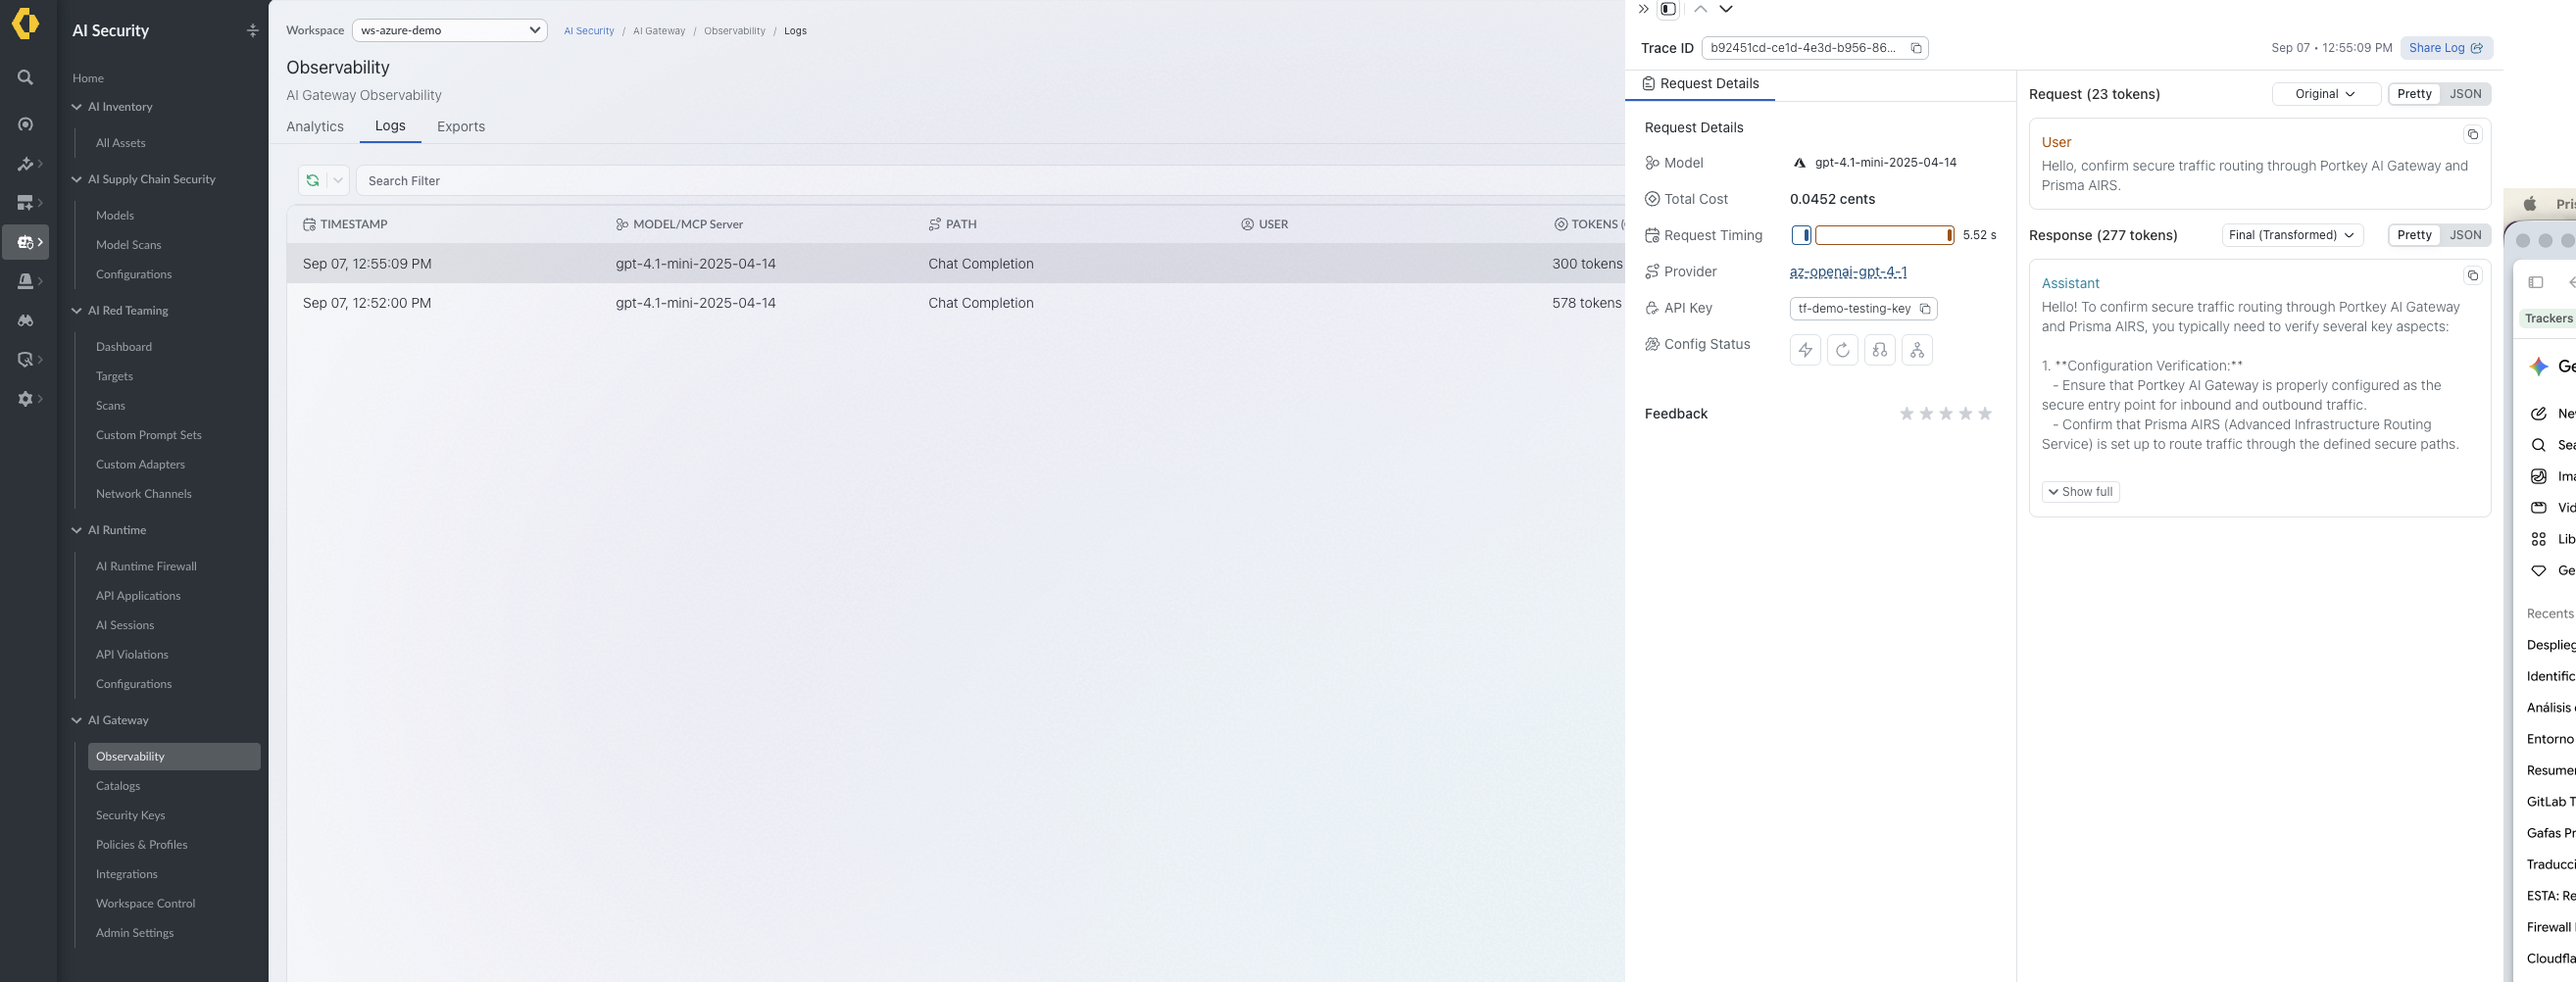
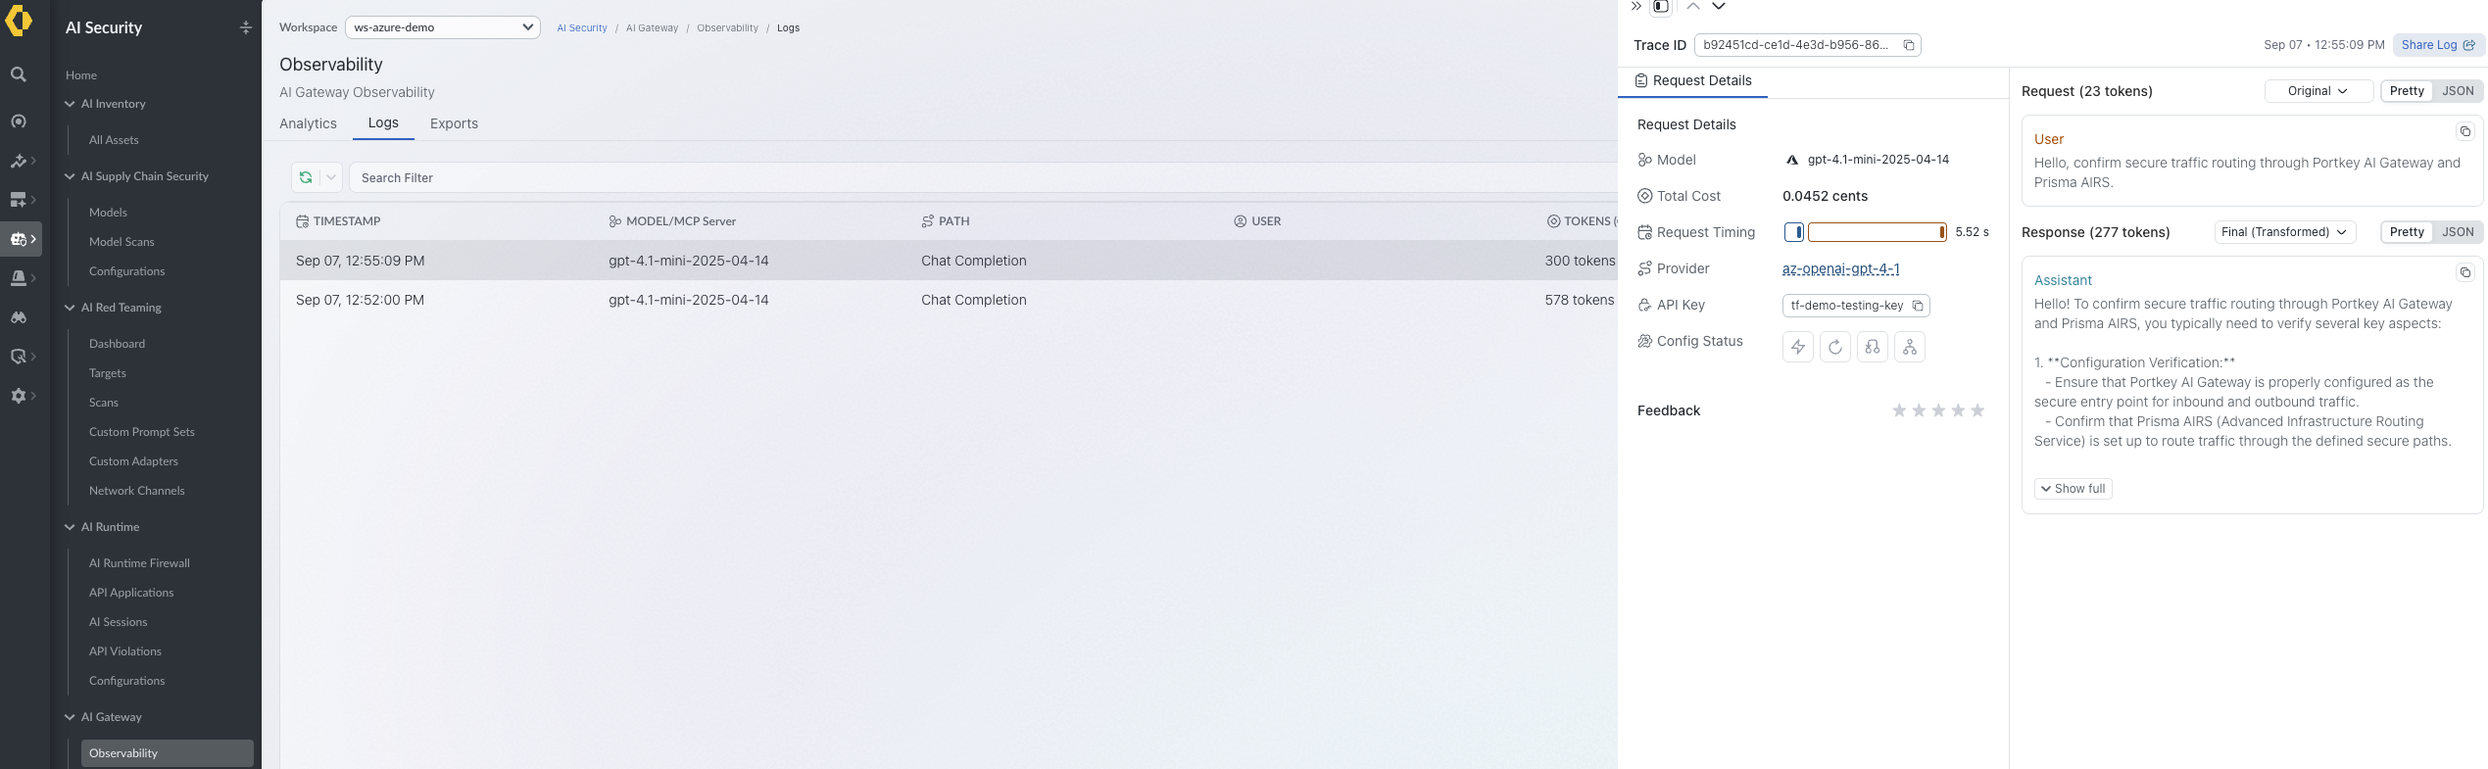
Readme information Expanded

diff --git a/02-Prisma-AIRS/01-AI-Gateway/README.md b/02-Prisma-AIRS/01-AI-Gateway/README.md
@@ -100,6 +100,7 @@ Create a file named `terraform.tfvars` inside the `01-AI-Gateway` directory:
 
 ```bash
 touch terraform.tfvars
+```
 
 #### Step 2: Define Required Credentials
 
@@ -141,24 +142,32 @@ The Terraform configuration provisions the Control Plane resources using the loc
 #### Step 1: Initialize Terraform
 Initialize the working directory and download required provider plugins:
 
+```bash
 terraform init
+```
 
 ### Step 2: Review Execution Plan
 Inspect the resources to be created:
 
+```bash
 terraform plan
+```
 
 ### Step 3: Apply Configuration
 Execute the deployment:
 
+```bash
 terraform apply
+```
 
 During the apply phase, Terraform will pause and prompt interactively for your Azure OpenAI resource subdomain (since no default value is defined for this variable):
 
+```bash
 var.azure_openai_resource_name
   Enter the Resource Name / Subdomain of your configured Azure OpenAI Instance in Azure Portal (e.g. 'aoai-demo-secops')
 
   Enter a value:
+```
 
 Type your resource subdomain (e.g., aoai-demo-secops) and press Enter. Terraform will proceed to execute:
 
@@ -210,6 +219,7 @@ curl -i -X POST "https://aigw.portkey.ai/v1/chat/completions" \
       {"role": "user", "content": "Hello, confirm secure traffic routing through Portkey AI Gateway and Prisma AIRS."}
     ]
   }'
+```
 
 #### Step 2: Verify Successful Response
 A successful execution will return an HTTP/1.1 200 OK status in your terminal. The response headers will include critical AI routing and FinOps metadata, such as x-portkey-provider: azure-openai and real-time token deductions (x-ratelimit-remaining-tokens).
@@ -228,4 +238,3 @@ Locate your recent test prompt. Click on the log entry to review the exact promp
    <p align="center">
    <img src="./images/Verify_1.png" alt="Verify log" width="750"/>
    </p>
-   
